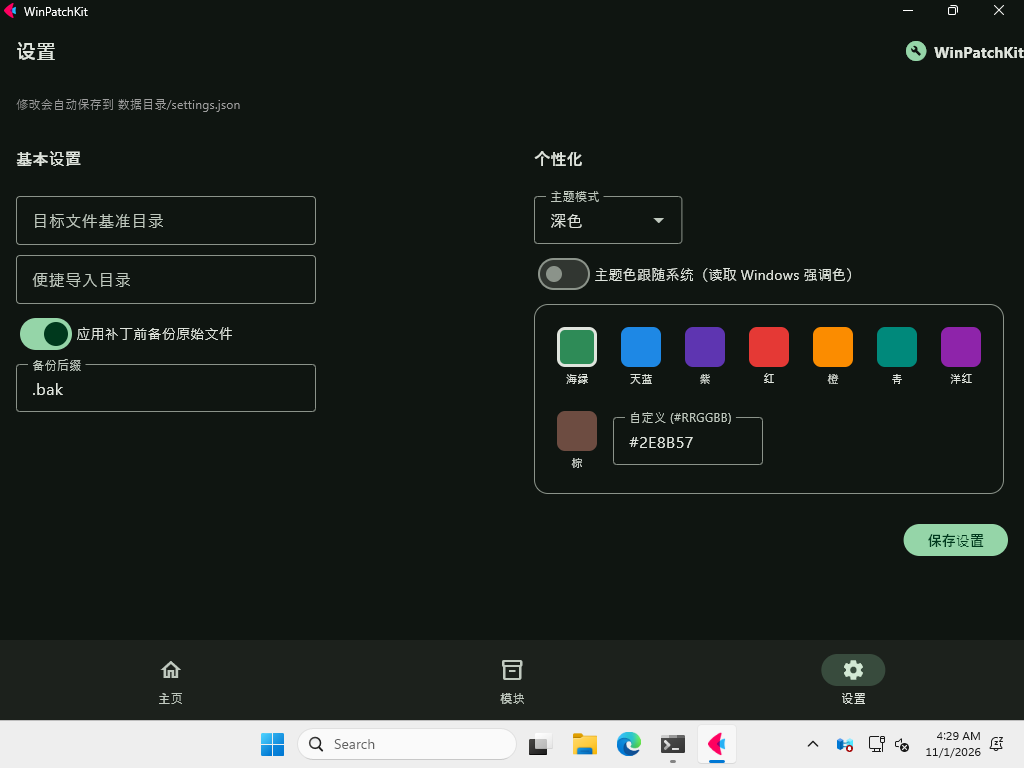
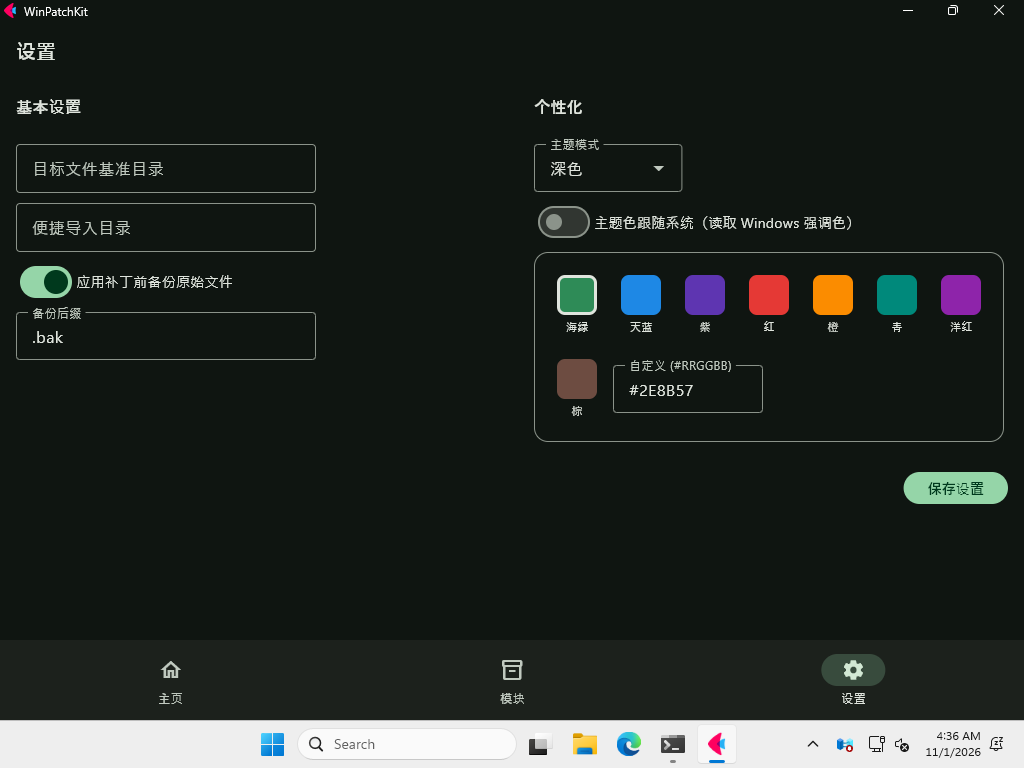
ui: Switch 滑块移到文字右侧（label_position=LEFT，符合MD3习惯）

diff --git a/gui/pages/settings.py b/gui/pages/settings.py
@@ -55,6 +55,7 @@ class SettingsPage:
 
         # ---- 左列：基本设置 ----
         self.backup_switch = ft.Switch(label="应用补丁前备份原始文件",
+                                       label_position=ft.LabelPosition.LEFT,
                                        value=bool(st.get("backup", True)))
         self.backup_ext = text_field("backup_ext", "备份后缀", ".bak")
 
@@ -87,6 +88,7 @@ class SettingsPage:
 
         self.follow_switch = ft.Switch(
             label="主题色跟随系统（读取 Windows 强调色）",
+            label_position=ft.LabelPosition.LEFT,
             value=bool(st.get("theme_follow_system", False)),
             on_change=lambda e: self._save(),
         )
